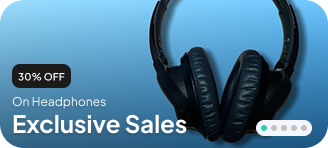
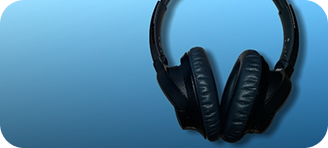
refactor Exclusive Sales Container

diff --git a/lib/Features/Home/presentation/views/widgets/exclusive_sales_container.dart b/lib/Features/Home/presentation/views/widgets/exclusive_sales_container.dart
@@ -1,7 +1,9 @@
 import 'package:flutter/material.dart';
 import 'package:flutter_screenutil/flutter_screenutil.dart';
 import 'package:go_router/go_router.dart';
+import 'package:quick_mart/core/extensions/app_localization_extension.dart';
 import 'package:quick_mart/core/utils/app_routes.dart';
+import 'package:quick_mart/core/utils/styles.dart';
 
 class ExclusiveSalesContainer extends StatelessWidget {
   const ExclusiveSalesContainer({super.key});
@@ -19,7 +21,20 @@ class ExclusiveSalesContainer extends StatelessWidget {
             borderRadius: BorderRadius.circular(24.r),
             color: Colors.grey,
           ),
-          child: Image.asset('assets/images/Banner.png', fit: BoxFit.fill),
+          child: Stack(
+            fit: StackFit.expand,
+            children: [
+              Image.asset('assets/images/Banner.png', fit: BoxFit.cover),
+              Positioned(
+                left: 12.w,
+                bottom: 10.h,
+                child: Text(
+                  context.locale.exclusive_sales,
+                  style: Styles.heading2Bold,
+                ),
+              ),
+            ],
+          ),
         ),
       ),
     );
